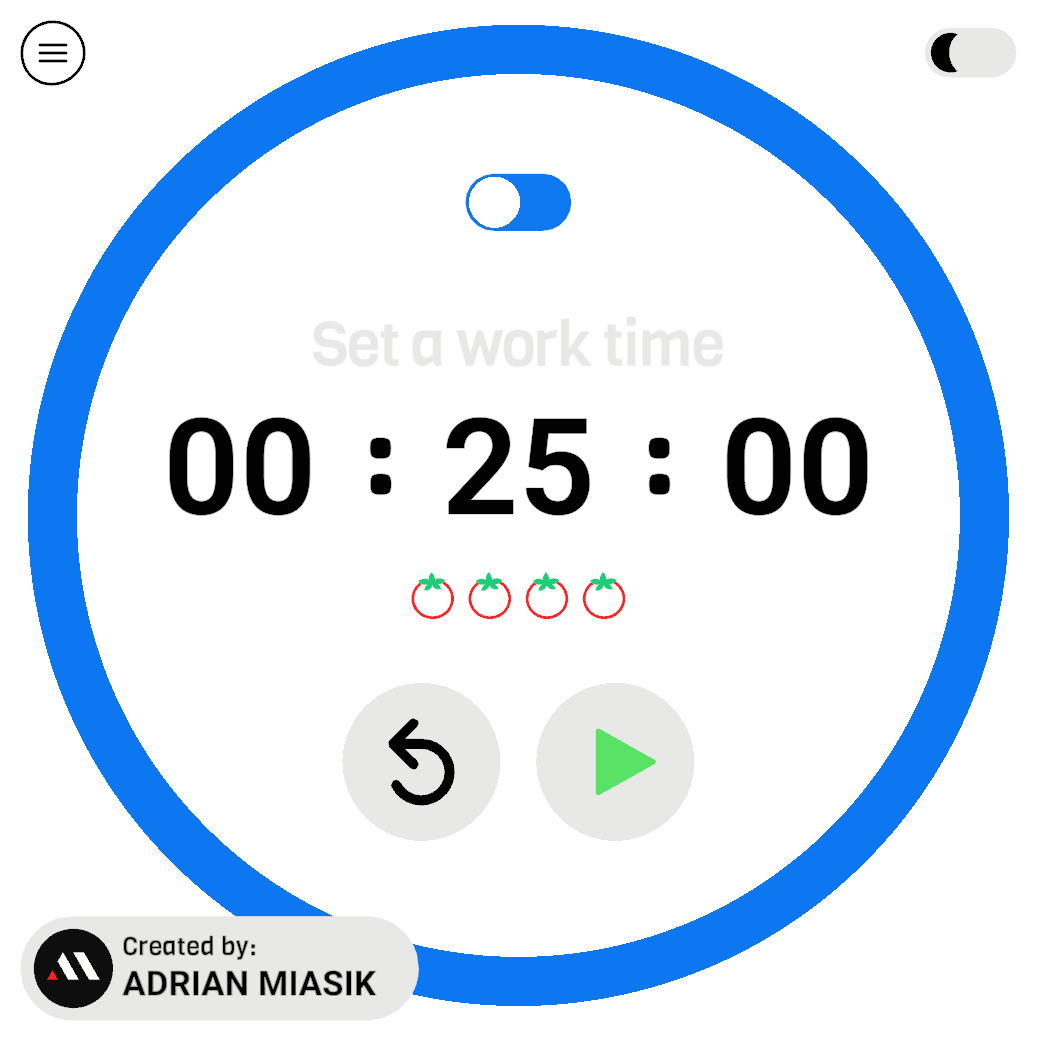
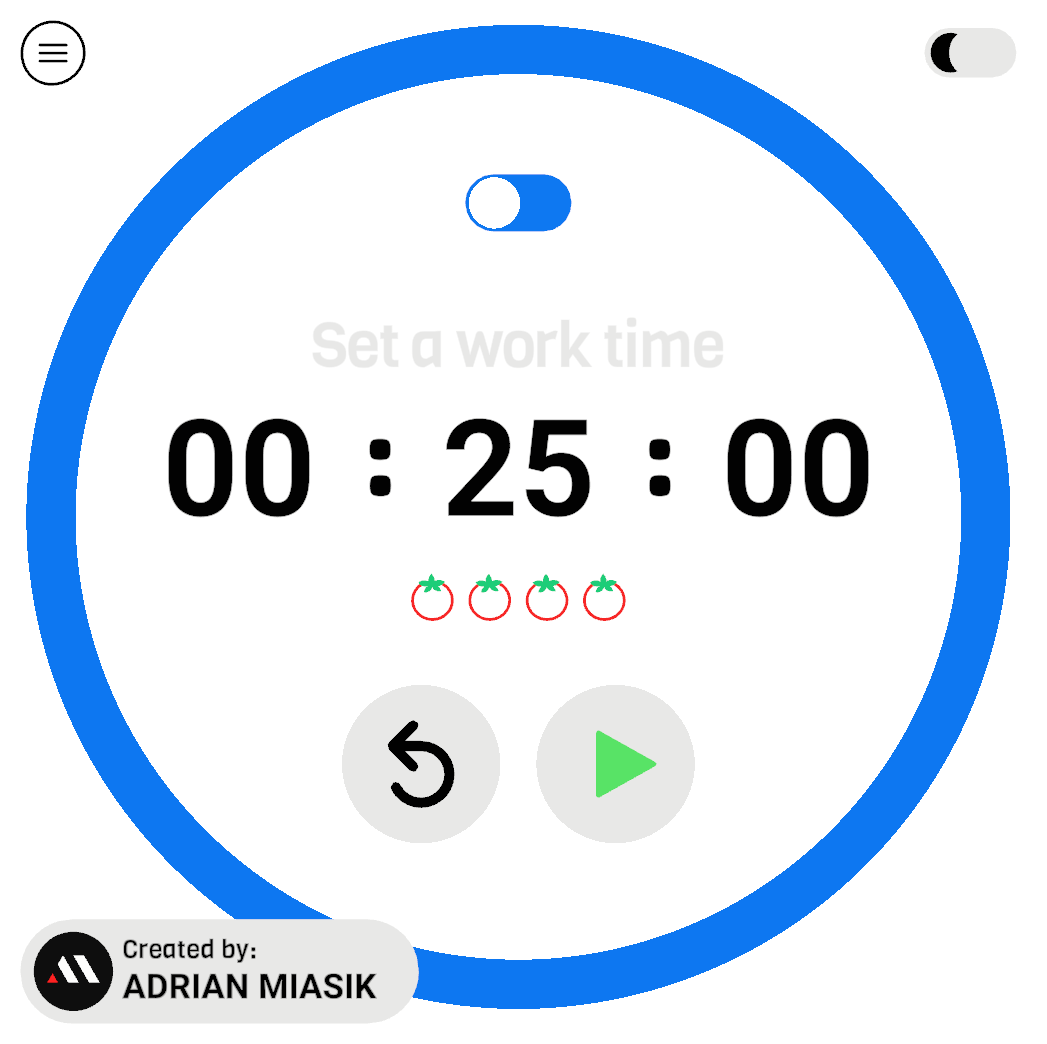
Implement first 3 auto screenshots

diff --git a/UnityPomodoro/Assets/AdrianMiasik/Scripts/Components/PomodoroTimer.cs b/UnityPomodoro/Assets/AdrianMiasik/Scripts/Components/PomodoroTimer.cs
@@ -89,17 +89,22 @@ namespace AdrianMiasik.Components
         [SerializeField] private float m_pauseFadeDuration = 0.1f;
         [SerializeField] private float m_pauseHoldDuration = 0.75f; // How long to wait between fade completions?
         [SerializeField] private AnimationCurve m_ringTickWidth;
+
+        /// <summary>
+        /// A <see cref="UnityEvent"/> that gets invoked when the spawn animation is complete.
+        /// </summary>
+        [Header("Unity Events")]
+        public UnityEvent m_onSpawnCompletion;
         
         /// <summary>
         /// A <see cref="UnityEvent"/> that gets invoked when the ring / timer alarm pulses.
         /// </summary>
-        [Header("Unity Events")]
         public UnityEvent m_onRingPulse;
         
         /// <summary>
         /// A <see cref="UnityEvent"/> that gets invoked when the timer finishes. (<see cref="States.COMPLETE"/>)
         /// </summary>
-        public UnityEvent m_onTimerCompletion; // Invoked when the timer finishes
+        public UnityEvent m_onTimerCompletion;
 
         [Header("Cache")]
         [SerializeField] private List<DoubleDigit> m_selectedDigits = new List<DoubleDigit>(); // Contains our currently selected digits
@@ -139,6 +144,7 @@ namespace AdrianMiasik.Components
         private bool isCurrentDialogInterruptible = true;
         
         // Pulse Ring Complete Animation
+        private bool disableCompletionAnimation;
         private float accumulatedRingPulseTime;
         private bool hasRingPulseBeenInvoked;
         
@@ -456,6 +462,8 @@ namespace AdrianMiasik.Components
                 {
                     m_ring.fillAmount = 1;
                     m_animateRingProgress = false;
+                    
+                    m_onSpawnCompletion?.Invoke();
                 }
             }
             
@@ -470,6 +478,10 @@ namespace AdrianMiasik.Components
                     break;
 
                 case States.COMPLETE:
+                    if (disableCompletionAnimation)
+                    {
+                        return;
+                    }
                     AnimateRingPulse();
                     break;
             }
@@ -1367,14 +1379,27 @@ namespace AdrianMiasik.Components
             return m_tomatoCounter.HasProgression() || m_digitFormat.m_isOnLongBreak;
         }
 
-        public void HideDigitArrows()
+        public void SetCurrentTime(float currentTimeInSeconds)
         {
-            m_digitFormat.HideArrows();
+            currentTime = currentTimeInSeconds;
+            m_digitFormat.CorrectTickAnimVisuals();
+            Tick();
+        }
+        
+        public void HideCreditsBubble()
+        {
+            m_creditsBubble.FadeOut(true);
         }
 
-        public void ShowCreditsBubble()
+        public void ShowEndTimestampBubble()
         {
-            m_creditsBubble.FadeIn(true);
+            m_endTimestampBubble.FadeIn(true);
+        }
+
+        public void DisableCompletionAnimation()
+        {
+            m_completionLabel.HideCompletionAnimation();
+            disableCompletionAnimation = true;
         }
     }
 }

diff --git a/UnityPomodoro/Assets/AdrianMiasik/Scripts/Components/Specific/MediaCreator.cs b/UnityPomodoro/Assets/AdrianMiasik/Scripts/Components/Specific/MediaCreator.cs
@@ -1,7 +1,9 @@
+using System;
 using System.Collections;
 using AdrianMiasik.Components.Base;
 using UnityEditor;
 using UnityEngine;
+using UnityEngine.Events;
 
 namespace AdrianMiasik.Components.Specific
 {
@@ -10,25 +12,50 @@ namespace AdrianMiasik.Components.Specific
         [MenuItem("CONTEXT/PomodoroTimer/Create Media")]
         private static void CreateMedia(MenuCommand command)
         {
-            // Create screenshot capturer
-            ScreenshotCapturer ssCapturer = new GameObject("ScreenshotCapturer").AddComponent<ScreenshotCapturer>();
-            
             // Get reference
             PomodoroTimer timer = (PomodoroTimer) command.context;
-
-            // Setup theme
-            timer.SetToLightMode();
-
-            // Setup first screenshot
-            timer.SwitchState(PomodoroTimer.States.SETUP);
-            timer.SetTimerValue("00:25:00");
-            timer.HideDigitArrows();
-            timer.ShowCreditsBubble();
             
-            // Capture first screenshot
-            ssCapturer.CaptureScreenshot("screenshot_0.png", 1);
+            // Create media capture object
+            MediaCapture mediaCapture = new GameObject("MediaCapture").AddComponent<MediaCapture>();
             
-            // TODO: Set timer to 25:00 / 21:48 and pause while running (might have to time scale)
+            // Chain screenshot queue
+            TakeSetupScreenshot(timer, mediaCapture, () =>
+            {
+                TakeRunningScreenshot(timer, mediaCapture, () =>
+                {
+                    TakeCompletedScreenshot(timer, mediaCapture);
+                });
+            });
+        }
+
+        private static void TakeSetupScreenshot(PomodoroTimer timer, MediaCapture mediaCapture, Action nextAction)
+        {
+            mediaCapture.CaptureScreenshot("screenshot_0.png", nextAction);
+        }
+
+        private static void TakeRunningScreenshot(PomodoroTimer timer, MediaCapture mediaCapture, Action nextAction)
+        {
+            // Clean up
+            timer.HideCreditsBubble();
+            
+            // Setup second screenshot
+            timer.SwitchState(PomodoroTimer.States.RUNNING);
+            timer.ShowEndTimestampBubble();
+            
+            TimeSpan timeSpan = new TimeSpan(0,0,25,0,0);
+            TimeSpan subSpan = new TimeSpan(0,0,3,12,0);
+            timeSpan = timeSpan.Subtract(subSpan);
+            timer.SetCurrentTime((float)timeSpan.TotalSeconds);
+
+            mediaCapture.CaptureScreenshot("screenshot_1.png", nextAction);
+        }
+
+        private static void TakeCompletedScreenshot(PomodoroTimer timer, MediaCapture mediaCapture)
+        {
+            timer.SwitchState(PomodoroTimer.States.COMPLETE);
+            timer.DisableCompletionAnimation();
+            
+            mediaCapture.CaptureScreenshot("screenshot_2.png", null);
         }
     }
 }

diff --git a/UnityPomodoro/Assets/AdrianMiasik/Scripts/Components/Base/MediaCapture.cs b/UnityPomodoro/Assets/AdrianMiasik/Scripts/Components/Base/MediaCapture.cs
@@ -1,0 +1,31 @@
+using System;
+using System.Collections;
+using AdrianMiasik.Components.Specific;
+using UnityEngine;
+
+namespace AdrianMiasik.Components.Base
+{
+    public class MediaCapture : MonoBehaviour
+    {
+        public static MediaCapture Instance;
+        
+        private void Awake()
+        {
+            Instance = this;
+        }
+        
+        IEnumerator TakeScreenshot(string filename, Action nextAction = null)
+        {
+            yield return new WaitForEndOfFrame();
+            ScreenCapture.CaptureScreenshot(filename);
+            Debug.Log("Screenshot '" + filename + "' Taken!");
+
+            nextAction?.Invoke();
+        }
+
+        public void CaptureScreenshot(string filename, Action nextAction)
+        {
+            Instance.StartCoroutine(TakeScreenshot(filename, nextAction));
+        }
+    }
+}

diff --git a/UnityPomodoro/Assets/AdrianMiasik/Scripts/Components/Core/Items/DoubleDigit.cs b/UnityPomodoro/Assets/AdrianMiasik/Scripts/Components/Core/Items/DoubleDigit.cs
@@ -222,13 +222,9 @@ namespace AdrianMiasik.Components.Core.Items
             m_tick.Play();
         }
 
-        /// <summary>
-        /// Is our tick animation currently being played?
-        /// </summary>
-        /// <returns></returns>
-        public bool IsTickAnimationPlaying()
+        public void HideTickAnimation()
         {
-            return m_tick.isPlaying;
+            m_tick.enabled = false;
         }
 
         /// <summary>

diff --git a/UnityPomodoro/Assets/AdrianMiasik/Scripts/Components/Specific/CompletionLabel.cs b/UnityPomodoro/Assets/AdrianMiasik/Scripts/Components/Specific/CompletionLabel.cs
@@ -72,5 +72,14 @@ namespace AdrianMiasik.Components.Specific
         {
             gameObject.transform.localScale = Vector3.one * desiredScale;
         }
+
+        public void HideCompletionAnimation()
+        {
+            m_completion.enabled = false;
+            foreach (TMP_Text text in m_labels)
+            {
+                text.gameObject.transform.localScale = Vector3.one;
+            }
+        }
     }
 }

diff --git a/UnityPomodoro/Assets/AdrianMiasik/Scripts/Components/Core/Containers/DigitFormat.cs b/UnityPomodoro/Assets/AdrianMiasik/Scripts/Components/Core/Containers/DigitFormat.cs
@@ -669,6 +669,7 @@ namespace AdrianMiasik.Components.Core.Containers
         {
             foreach (DoubleDigit digit in generatedDigits)
             {
+                digit.HideTickAnimation();
                 digit.ResetTextPosition();
             }
         }
